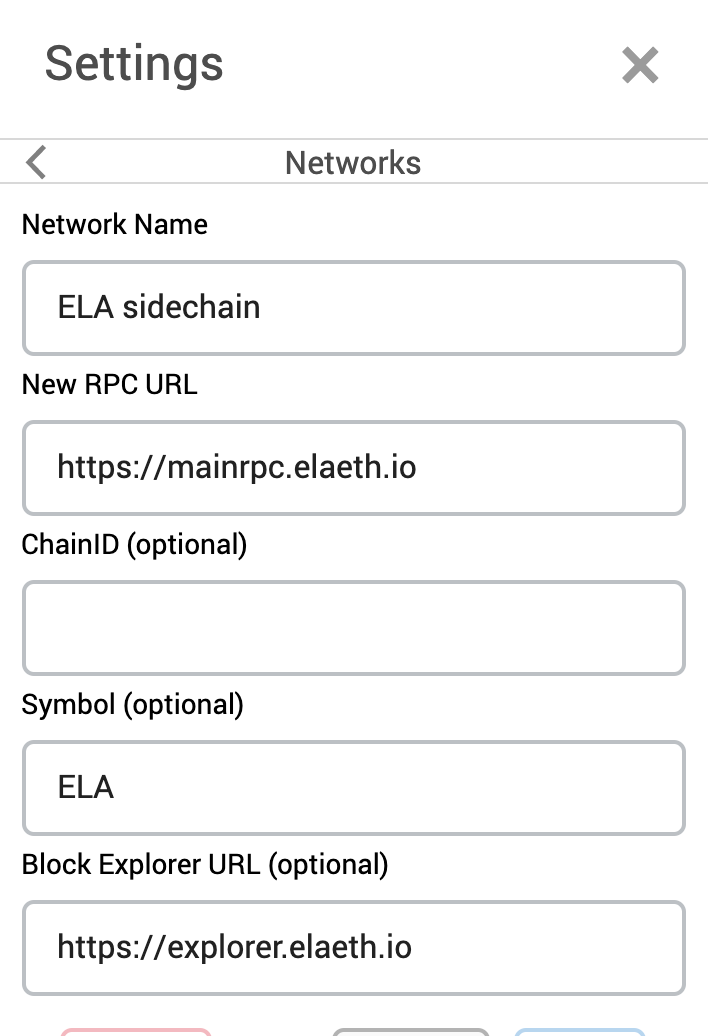
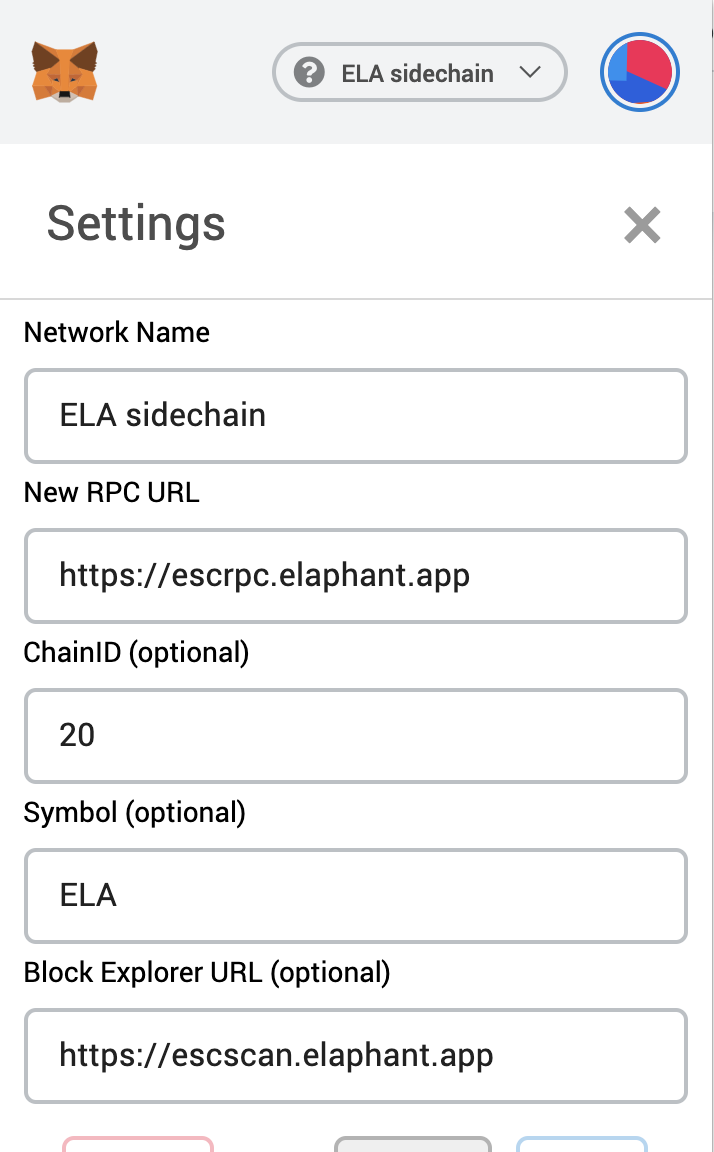
update

diff --git a/MetaMaskGuide.html b/MetaMaskGuide.html
@@ -22,15 +22,16 @@ body.typora-export { padding-left: 30px; padding-right: 30px; }
   .CodeMirror-sizer { margin-left: 0px !important; }
   .CodeMirror-gutters { display: none !important; }
 }
-#write li > figure:first-child { margin-top: -20px; }
+#write li > figure:last-child { margin-bottom: 0.5rem; }
 #write ol, #write ul { position: relative; }
-img { max-width: 100%; vertical-align: middle; }
+img { max-width: 100%; vertical-align: middle; image-orientation: from-image; }
 button, input, select, textarea { color: inherit; font-family: inherit; font-size: inherit; font-style: inherit; font-variant-caps: inherit; font-weight: inherit; font-stretch: inherit; line-height: inherit; }
 input[type="checkbox"], input[type="radio"] { line-height: normal; padding: 0px; }
 *, ::after, ::before { box-sizing: border-box; }
 #write h1, #write h2, #write h3, #write h4, #write h5, #write h6, #write p, #write pre { width: inherit; }
 #write h1, #write h2, #write h3, #write h4, #write h5, #write h6, #write p { position: relative; }
-h1, h2, h3, h4, h5, h6 { break-after: avoid-page; break-inside: avoid; orphans: 2; }
+p { line-height: inherit; }
+h1, h2, h3, h4, h5, h6 { break-after: avoid-page; break-inside: avoid; orphans: 4; }
 p { orphans: 4; }
 h1 { font-size: 2rem; }
 h2 { font-size: 1.8rem; }
@@ -46,7 +47,7 @@ sup.md-footnote { padding: 2px 4px; background-color: rgba(238, 238, 238, 0.7); 
 sup.md-footnote a, sup.md-footnote a:hover { color: inherit; text-transform: inherit; text-decoration: inherit; }
 #write input[type="checkbox"] { cursor: pointer; width: inherit; height: inherit; }
 figure { overflow-x: auto; margin: 1.2em 0px; max-width: calc(100% + 16px); padding: 0px; }
-figure > table { margin: 0px !important; }
+figure > table { margin: 0px; }
 tr { break-inside: avoid; break-after: auto; }
 thead { display: table-header-group; }
 table { border-collapse: collapse; border-spacing: 0px; width: 100%; overflow: auto; break-inside: auto; text-align: left; }
@@ -81,23 +82,24 @@ blockquote > :first-child, li > :first-child { margin-top: 0px; }
 .footnotes-area { color: rgb(136, 136, 136); margin-top: 0.714rem; padding-bottom: 0.143rem; white-space: normal; }
 #write .footnote-line { white-space: pre-wrap; }
 @media print { 
-  body, html { border: 1px solid transparent; height: 99%; break-after: avoid; break-before: avoid; }
+  body, html { border: 1px solid transparent; height: 99%; break-after: avoid; break-before: avoid; font-variant-ligatures: no-common-ligatures; }
   #write { margin-top: 0px; padding-top: 0px; border-color: transparent !important; }
   .typora-export * { -webkit-print-color-adjust: exact; }
   html.blink-to-pdf { font-size: 13px; }
   .typora-export #write { padding-left: 32px; padding-right: 32px; padding-bottom: 0px; break-after: avoid; }
   .typora-export #write::after { height: 0px; }
-  @page { margin: 20mm 0px; }
+  .is-mac table { break-inside: avoid; }
 }
 .footnote-line { margin-top: 0.714em; font-size: 0.7em; }
 a img, img a { cursor: pointer; }
 pre.md-meta-block { font-size: 0.8rem; min-height: 0.8rem; white-space: pre-wrap; background-color: rgb(204, 204, 204); display: block; overflow-x: hidden; background-position: initial initial; background-repeat: initial initial; }
 p > .md-image:only-child:not(.md-img-error) img, p > img:only-child { display: block; margin: auto; }
+#write.first-line-indent p > .md-image:only-child:not(.md-img-error) img { left: -2em; position: relative; }
 p > .md-image:only-child { display: inline-block; width: 100%; }
 #write .MathJax_Display { margin: 0.8em 0px 0px; }
 .md-math-block { width: 100%; }
 .md-math-block:not(:empty)::after { display: none; }
-[contenteditable="true"]:active, [contenteditable="true"]:focus { outline: 0px; box-shadow: none; }
+[contenteditable="true"]:active, [contenteditable="true"]:focus, [contenteditable="false"]:active, [contenteditable="false"]:focus { outline: 0px; box-shadow: none; }
 .md-task-list-item { position: relative; list-style-type: none; }
 .task-list-item.md-task-list-item { padding-left: 0px; }
 .md-task-list-item > input { position: absolute; top: 0px; left: 0px; margin-left: -1.2em; margin-top: calc(1em - 10px); border: none; }
@@ -138,15 +140,19 @@ a.md-print-anchor { white-space: pre !important; border: none !important; displa
 .MathJax_SVG .MJX-sans-serif { font-family: sans-serif; }
 .MathJax_SVG { display: inline; font-style: normal; font-weight: 400; line-height: normal; zoom: 90%; text-indent: 0px; text-align: left; text-transform: none; letter-spacing: normal; word-spacing: normal; word-wrap: normal; white-space: nowrap; float: none; direction: ltr; max-width: none; max-height: none; min-width: 0px; min-height: 0px; border: 0px; padding: 0px; margin: 0px; }
 .MathJax_SVG * { transition: none; }
-.MathJax_SVG_Display svg { vertical-align: middle !important; margin-bottom: 0px !important; }
+.MathJax_SVG_Display svg { vertical-align: middle !important; margin-bottom: 0px !important; margin-top: 0px !important; }
 .os-windows.monocolor-emoji .md-emoji { font-family: "Segoe UI Symbol", sans-serif; }
 .md-diagram-panel > svg { max-width: 100%; }
-[lang="mermaid"] svg, [lang="flow"] svg { max-width: 100%; }
+[lang="flow"] svg, [lang="mermaid"] svg { max-width: 100%; height: auto; }
 [lang="mermaid"] .node text { font-size: 1rem; }
 table tr th { border-bottom-width: 0px; }
 video { max-width: 100%; display: block; margin: 0px auto; }
 iframe { max-width: 100%; width: 100%; border: none; }
 .highlight td, .highlight tr { border: 0px; }
+svg[id^="mermaidChart"] { line-height: 1em; }
+mark { background-color: rgb(255, 255, 0); color: rgb(0, 0, 0); background-position: initial initial; background-repeat: initial initial; }
+.md-html-inline .md-plain, .md-html-inline strong, mark .md-inline-math, mark strong { color: inherit; }
+mark .md-meta { color: rgb(0, 0, 0); opacity: 0.3 !important; }
 
 
 .CodeMirror { height: auto; }
@@ -229,12 +235,16 @@ div.CodeMirror span.CodeMirror-nonmatchingbracket { color: rgb(255, 34, 34); }
 
 @include-when-export url(https://fonts.loli.net/css?family=Open+Sans:400italic,700italic,700,400&subset=latin,latin-ext);
 
-html {
+/* open-sans-regular - latin-ext_latin */
+  /* open-sans-italic - latin-ext_latin */
+    /* open-sans-700 - latin-ext_latin */
+    /* open-sans-700italic - latin-ext_latin */
+  html {
     font-size: 16px;
 }
 
 body {
-    font-family: "Open Sans","Clear Sans","Helvetica Neue",Helvetica,Arial,sans-serif;
+    font-family: "Open Sans","Clear Sans", "Helvetica Neue", Helvetica, Arial, sans-serif;
     color: rgb(51, 51, 51);
     line-height: 1.6;
 }
@@ -245,6 +255,19 @@ body {
   	padding: 30px;
     padding-bottom: 100px;
 }
+
+@media only screen and (min-width: 1400px) {
+	#write {
+		max-width: 1024px;
+	}
+}
+
+@media only screen and (min-width: 1800px) {
+	#write {
+		max-width: 1200px;
+	}
+}
+
 #write > ul:first-child,
 #write > ol:first-child{
     margin-top: 30px;
@@ -386,13 +409,11 @@ table tr th {
     font-weight: bold;
     border: 1px solid #dfe2e5;
     border-bottom: 0;
-    text-align: left;
     margin: 0;
     padding: 6px 13px;
 }
 table tr td {
     border: 1px solid #dfe2e5;
-    text-align: left;
     margin: 0;
     padding: 6px 13px;
 }
@@ -562,10 +583,19 @@ header, .context-menu, .megamenu-content, footer{
     border-color: #e5e5e5;
 }
 
+.ty-preferences .window-content {
+    background-color: #fafafa;
+}
+
+.ty-preferences .nav-group-item.active {
+    color: white;
+    background: #999;
+}
+
  .typora-export li, .typora-export p, .typora-export,  .footnote-line {white-space: normal;} 
 </style>
 </head>
 <body class='typora-export' >
-<div  id='write'  class = 'is-mac'><h1><a name='header-n889' class='md-header-anchor '></a>How to use CryptoName</h1><iframe width="560" height="315" src="https://www.youtube.com/embed/MmJpE7xJlBI" frameborder="0" allow="accelerometer; autoplay; encrypted-media; gyroscope; picture-in-picture" allowfullscreen="" onerror="this.style.display = 'none';"></iframe><p>&nbsp;</p><h3><a name='header-n893' class='md-header-anchor '></a>1. Install MetaMask and Elaphant wallet app.</h3><p>First you need a PC/ Laptop with Chrome, Firefox or Brave browser installed. Then download and install Metamask Wallet from here –</p><p><a href='https://metamask.io' target='_top' class='url'>https://metamask.io</a></p><p>Secondly you need an android / IOS device with Elaphant wallet installed, download here –</p><p><a href='https://elaphant.app/' target='_top' class='url'>https://elephantwallet.app/</a></p><p>&nbsp;</p><h3><a name='header-n899' class='md-header-anchor'></a>2. Connect to the Elastos sidechain.</h3><p><img src="img/s4.png" width="240"/><img src="img/s3.png" width="240"/></p><p>&nbsp;</p><p>Network Name: </p><pre spellcheck="false" class="md-fences md-end-block ty-contain-cm modeLoaded" lang=""><div class="CodeMirror cm-s-inner CodeMirror-wrap" lang=""><div style="overflow: hidden; position: relative; width: 3px; height: 0px; top: 0px; left: 8px;"><textarea autocorrect="off" autocapitalize="off" spellcheck="false" tabindex="0" style="position: absolute; bottom: -1em; padding: 0px; width: 1000px; height: 1em; outline: none;"></textarea></div><div class="CodeMirror-scrollbar-filler" cm-not-content="true"></div><div class="CodeMirror-gutter-filler" cm-not-content="true"></div><div class="CodeMirror-scroll" tabindex="-1"><div class="CodeMirror-sizer" style="margin-left: 0px; margin-bottom: 0px; border-right-width: 0px; padding-right: 0px; padding-bottom: 0px;"><div style="position: relative; top: 0px;"><div class="CodeMirror-lines" role="presentation"><div role="presentation" style="position: relative; outline: none;"><div class="CodeMirror-measure"><pre><span>xxxxxxxxxx</span></pre></div><div class="CodeMirror-measure"></div><div style="position: relative; z-index: 1;"></div><div class="CodeMirror-code" role="presentation"><div class="CodeMirror-activeline" style="position: relative;"><div class="CodeMirror-activeline-background CodeMirror-linebackground"></div><div class="CodeMirror-gutter-background CodeMirror-activeline-gutter" style="left: 0px; width: 0px;"></div><pre class=" CodeMirror-line " role="presentation"><span role="presentation" style="padding-right: 0.1px;">ELA sidechain</span></pre></div></div></div></div></div></div><div style="position: absolute; height: 0px; width: 1px; border-bottom-width: 0px; border-bottom-style: solid; border-bottom-color: transparent; top: 22px;"></div><div class="CodeMirror-gutters" style="display: none; height: 22px;"></div></div></div></pre><p>Symbol: </p><pre spellcheck="false" class="md-fences md-end-block ty-contain-cm modeLoaded" lang=""><div class="CodeMirror cm-s-inner CodeMirror-wrap" lang=""><div style="overflow: hidden; position: relative; width: 3px; height: 0px; top: 0px; left: 8px;"><textarea autocorrect="off" autocapitalize="off" spellcheck="false" tabindex="0" style="position: absolute; bottom: -1em; padding: 0px; width: 1000px; height: 1em; outline: none;"></textarea></div><div class="CodeMirror-scrollbar-filler" cm-not-content="true"></div><div class="CodeMirror-gutter-filler" cm-not-content="true"></div><div class="CodeMirror-scroll" tabindex="-1"><div class="CodeMirror-sizer" style="margin-left: 0px; margin-bottom: 0px; border-right-width: 0px; padding-right: 0px; padding-bottom: 0px;"><div style="position: relative; top: 0px;"><div class="CodeMirror-lines" role="presentation"><div role="presentation" style="position: relative; outline: none;"><div class="CodeMirror-measure"><pre><span>xxxxxxxxxx</span></pre></div><div class="CodeMirror-measure"></div><div style="position: relative; z-index: 1;"></div><div class="CodeMirror-code" role="presentation"><div class="CodeMirror-activeline" style="position: relative;"><div class="CodeMirror-activeline-background CodeMirror-linebackground"></div><div class="CodeMirror-gutter-background CodeMirror-activeline-gutter" style="left: 0px; width: 0px;"></div><pre class=" CodeMirror-line " role="presentation"><span role="presentation" style="padding-right: 0.1px;">ELA</span></pre></div></div></div></div></div></div><div style="position: absolute; height: 0px; width: 1px; border-bottom-width: 0px; border-bottom-style: solid; border-bottom-color: transparent; top: 22px;"></div><div class="CodeMirror-gutters" style="display: none; height: 22px;"></div></div></div></pre><p>New RPC URL: </p><pre spellcheck="false" class="md-fences md-end-block ty-contain-cm modeLoaded" lang=""><div class="CodeMirror cm-s-inner CodeMirror-wrap" lang=""><div style="overflow: hidden; position: relative; width: 3px; height: 0px; top: 0px; left: 8px;"><textarea autocorrect="off" autocapitalize="off" spellcheck="false" tabindex="0" style="position: absolute; bottom: -1em; padding: 0px; width: 1000px; height: 1em; outline: none;"></textarea></div><div class="CodeMirror-scrollbar-filler" cm-not-content="true"></div><div class="CodeMirror-gutter-filler" cm-not-content="true"></div><div class="CodeMirror-scroll" tabindex="-1"><div class="CodeMirror-sizer" style="margin-left: 0px; margin-bottom: 0px; border-right-width: 0px; padding-right: 0px; padding-bottom: 0px;"><div style="position: relative; top: 0px;"><div class="CodeMirror-lines" role="presentation"><div role="presentation" style="position: relative; outline: none;"><div class="CodeMirror-measure"><pre><span>xxxxxxxxxx</span></pre></div><div class="CodeMirror-measure"></div><div style="position: relative; z-index: 1;"></div><div class="CodeMirror-code" role="presentation"><div class="CodeMirror-activeline" style="position: relative;"><div class="CodeMirror-activeline-background CodeMirror-linebackground"></div><div class="CodeMirror-gutter-background CodeMirror-activeline-gutter" style="left: 0px; width: 0px;"></div><pre class=" CodeMirror-line " role="presentation"><span role="presentation" style="padding-right: 0.1px;">https://mainrpc.elaeth.io</span></pre></div></div></div></div></div></div><div style="position: absolute; height: 0px; width: 1px; border-bottom-width: 0px; border-bottom-style: solid; border-bottom-color: transparent; top: 22px;"></div><div class="CodeMirror-gutters" style="display: none; height: 22px;"></div></div></div></pre><p>Block Explorer URL: </p><pre spellcheck="false" class="md-fences md-end-block ty-contain-cm modeLoaded" lang=""><div class="CodeMirror cm-s-inner CodeMirror-wrap" lang=""><div style="overflow: hidden; position: relative; width: 3px; height: 0px; top: 0px; left: 8px;"><textarea autocorrect="off" autocapitalize="off" spellcheck="false" tabindex="0" style="position: absolute; bottom: -1em; padding: 0px; width: 1000px; height: 1em; outline: none;"></textarea></div><div class="CodeMirror-scrollbar-filler" cm-not-content="true"></div><div class="CodeMirror-gutter-filler" cm-not-content="true"></div><div class="CodeMirror-scroll" tabindex="-1"><div class="CodeMirror-sizer" style="margin-left: 0px; margin-bottom: 0px; border-right-width: 0px; padding-right: 0px; padding-bottom: 0px;"><div style="position: relative; top: 0px;"><div class="CodeMirror-lines" role="presentation"><div role="presentation" style="position: relative; outline: none;"><div class="CodeMirror-measure"><pre><span>xxxxxxxxxx</span></pre></div><div class="CodeMirror-measure"></div><div style="position: relative; z-index: 1;"></div><div class="CodeMirror-code" role="presentation"><div class="CodeMirror-activeline" style="position: relative;"><div class="CodeMirror-activeline-background CodeMirror-linebackground"></div><div class="CodeMirror-gutter-background CodeMirror-activeline-gutter" style="left: 0px; width: 0px;"></div><pre class=" CodeMirror-line " role="presentation"><span role="presentation" style="padding-right: 0.1px;">https://explorer.elaeth.io</span></pre></div></div></div></div></div></div><div style="position: absolute; height: 0px; width: 1px; border-bottom-width: 0px; border-bottom-style: solid; border-bottom-color: transparent; top: 22px;"></div><div class="CodeMirror-gutters" style="display: none; height: 22px;"></div></div></div></pre><p>Above is the network setting.</p><p>&nbsp;</p><h3><a name='header-n912' class='md-header-anchor '></a>3. Create a wallet or import a wallet.</h3><p><img src="img/s2.png" width="240"/></p><p>If you want to import your Elaphant wallet to MetaMask, you will first need your private key. Click this link <a href='https://elaphant.app/mnemonic.html' target='_top' class='url'>https://elaphant.app/mnemonic.html</a> and enter your Elaphant wallet mnemonics, the page will then generate your private key below.</p><p><img src="img/s1.png" /></p><p>Please copy that private key to MetaMask. Note, please double check the address after imptorted.</p><p>&nbsp;</p><h3><a name='header-n918' class='md-header-anchor '></a>4. Send ELA to your CryptoName Metamask account.</h3><p>You are now connected to the Elastos sidechain through Metamask, the next step is to send ELA from your Elaphant wallet to your CryptoName Account.</p><p>Go to your CryptoName <a href='https://cryptoname.org/account.html' target='_top'><strong>Account</strong></a> on the PC/Laptop and press <strong>Deposit</strong>, a QR code will appear on the screen.</p><p><img src="img/s7.png" /></p><p>Now using the Elaphant wallet on your device click send and scan the QR code, enter the amount of ELA and click Send.</p><p>After a few minutes the ELA should appear in you CryptoName Account.</p><p>Set up complete.</p><p>You are now ready to purchase your CryptoName&#39;s.</p><p>You can now search and purchase your names in the <a href='https://cryptoname.org/register.html' target='_top'><strong>Register</strong></a>.</p><p>You can manage your names in the <a href='https://cryptoname.org/account.html' target='_top'><strong>Account</strong></a>.</p><p>&nbsp;</p><h3><a name='header-n929' class='md-header-anchor '></a>5. How to return ELA from your CryptoName Account back to your Elephant wallet.</h3><p>On the CryptoName <a href='https://cryptoname.org/account.html' target='_top'><strong>Account</strong></a> page on the PC/Laptop click Withdraw. Enter the amount of ELA and the address of the Elephant wallet, and click send.</p><p>After a few minutes minutes the ELA will appear in the Elaphant wallet on the device.</p><p>&nbsp;</p><h3><a name='header-n933' class='md-header-anchor '></a>6. How to Purchase/Register your CryptoName.</h3><p>On the CryptoName website on your PC/Laptop click the <a href='https://cryptoname.org/register.html' target='_top'><strong>Register</strong></a> link. Then enter your chosen name in the registration bar, if the name is available you will see a green tick and the estimated price below.</p><p>To proceed click the Register button below the price, the Metamask wallet will now pop up, you now need to click Confirm within the Metamask wallet. Wait a few minutes and your CryptoName will appear within the Account page.</p><p>To link your CryptoName to your Elaphant wallet, go to the Account page and click Edit on your chosen name. At the bottom of the page click &quot;Start Elaphant to fill in quickly&quot; .</p><p>A QR code will now appear on the screen, using the Elaphant Wallet on the device, scan the QR code( see images for the location of the Qr scanner within the Elaphant wallet)</p><p><img src="img/s5.png" width="240"/><img src="img/s6.png" width="240"/></p><p>Once this process is complete click the Save button within the edit page on your PC/Laptop. And that&#39;s it, people will now only need to enter your CryptoName to send you ELA, ETH, BTC.</p><p>&nbsp;</p><h3><a name='header-n941' class='md-header-anchor '></a>7. How to transfer your CryptoName.</h3><p>Within the CryptoName <a href='https://cryptoname.org/account.html' target='_top'><strong>Account</strong></a> page on the PC/Laptop click Transfer on the CryptoName you want to transfer. You will now need to enter the receivers Account Address (this can be found in their CryptoName Account page), then click Submit.</p><p>The Metamask wallet will now pop up, click Confirm. Wait a while and it will appear in the receivers CryptoName Account page.</p><p>Please note, you can only transfer your CryptoName, to another registered CryptoName account.</p><p>&nbsp;</p></div>
+<div  id='write'  class = ''><h1><a name="how-to-use-cryptoname" class="md-header-anchor"></a><span>How to use CryptoName</span></h1><iframe width="560" height="315" src="https://www.youtube.com/embed/MmJpE7xJlBI" frameborder="0" allow="accelerometer; autoplay; encrypted-media; gyroscope; picture-in-picture" allowfullscreen=""></iframe><p>&nbsp;</p><h3><a name="1-install-metamask-and-elaphant-wallet-app" class="md-header-anchor"></a><span>1. Install MetaMask and Elaphant wallet app.</span></h3><p><span>First you need a PC/ Laptop with Chrome, Firefox or Brave browser installed. Then download and install Metamask Wallet from here –</span></p><p><a href='https://metamask.io' target='_top' class='url'>https://metamask.io</a></p><p><span>Secondly you need an android / IOS device with Elaphant wallet installed, download here –</span></p><p><a href='https://elaphant.app/' target='_top' class='url'>https://elaphant.app/</a></p><p>&nbsp;</p><h3><a name="2-connect-to-the-elastos-sidechain" class="md-header-anchor"></a><span>2. Connect to the Elastos sidechain.</span></h3><p><img src="img/s4.png" width="240"/><img src="img/s3.png" width="240"/></p><p>&nbsp;</p><p><span>Network Name: </span></p><pre spellcheck="false" class="md-fences md-end-block ty-contain-cm modeLoaded" lang=""><div class="CodeMirror cm-s-inner CodeMirror-wrap" lang=""><div style="overflow: hidden; position: relative; width: 3px; height: 0px; top: 0px; left: 8px;"><textarea autocorrect="off" autocapitalize="off" spellcheck="false" tabindex="0" style="position: absolute; bottom: -1em; padding: 0px; width: 1000px; height: 1em; outline: none;"></textarea></div><div class="CodeMirror-scrollbar-filler" cm-not-content="true"></div><div class="CodeMirror-gutter-filler" cm-not-content="true"></div><div class="CodeMirror-scroll" tabindex="-1"><div class="CodeMirror-sizer" style="margin-left: 0px; margin-bottom: 0px; border-right-width: 0px; padding-right: 0px; padding-bottom: 0px;"><div style="position: relative; top: 0px;"><div class="CodeMirror-lines" role="presentation"><div role="presentation" style="position: relative; outline: none;"><div class="CodeMirror-measure"><pre><span>xxxxxxxxxx</span></pre></div><div class="CodeMirror-measure"></div><div style="position: relative; z-index: 1;"></div><div class="CodeMirror-code" role="presentation"><div class="CodeMirror-activeline" style="position: relative;"><div class="CodeMirror-activeline-background CodeMirror-linebackground"></div><div class="CodeMirror-gutter-background CodeMirror-activeline-gutter" style="left: 0px; width: 0px;"></div><pre class=" CodeMirror-line " role="presentation"><span role="presentation" style="padding-right: 0.1px;">ELA sidechain</span></pre></div></div></div></div></div></div><div style="position: absolute; height: 0px; width: 1px; border-bottom-width: 0px; border-bottom-style: solid; border-bottom-color: transparent; top: 22px;"></div><div class="CodeMirror-gutters" style="display: none; height: 22px;"></div></div></div></pre><p><span>Symbol: </span></p><pre spellcheck="false" class="md-fences md-end-block ty-contain-cm modeLoaded" lang=""><div class="CodeMirror cm-s-inner CodeMirror-wrap" lang=""><div style="overflow: hidden; position: relative; width: 3px; height: 0px; top: 0px; left: 8px;"><textarea autocorrect="off" autocapitalize="off" spellcheck="false" tabindex="0" style="position: absolute; bottom: -1em; padding: 0px; width: 1000px; height: 1em; outline: none;"></textarea></div><div class="CodeMirror-scrollbar-filler" cm-not-content="true"></div><div class="CodeMirror-gutter-filler" cm-not-content="true"></div><div class="CodeMirror-scroll" tabindex="-1"><div class="CodeMirror-sizer" style="margin-left: 0px; margin-bottom: 0px; border-right-width: 0px; padding-right: 0px; padding-bottom: 0px;"><div style="position: relative; top: 0px;"><div class="CodeMirror-lines" role="presentation"><div role="presentation" style="position: relative; outline: none;"><div class="CodeMirror-measure"><pre><span>xxxxxxxxxx</span></pre></div><div class="CodeMirror-measure"></div><div style="position: relative; z-index: 1;"></div><div class="CodeMirror-code" role="presentation"><div class="CodeMirror-activeline" style="position: relative;"><div class="CodeMirror-activeline-background CodeMirror-linebackground"></div><div class="CodeMirror-gutter-background CodeMirror-activeline-gutter" style="left: 0px; width: 0px;"></div><pre class=" CodeMirror-line " role="presentation"><span role="presentation" style="padding-right: 0.1px;">ELA</span></pre></div></div></div></div></div></div><div style="position: absolute; height: 0px; width: 1px; border-bottom-width: 0px; border-bottom-style: solid; border-bottom-color: transparent; top: 22px;"></div><div class="CodeMirror-gutters" style="display: none; height: 22px;"></div></div></div></pre><p><span>ChainID: </span></p><pre spellcheck="false" class="md-fences md-end-block ty-contain-cm modeLoaded md-focus" lang=""><div class="CodeMirror cm-s-inner CodeMirror-wrap" lang=""><div style="overflow: hidden; position: relative; width: 3px; height: 0px; top: 0px; left: 24.796875px;"><textarea autocorrect="off" autocapitalize="off" spellcheck="false" tabindex="0" style="position: absolute; bottom: -1em; padding: 0px; width: 1000px; height: 1em; outline: none;"></textarea></div><div class="CodeMirror-scrollbar-filler" cm-not-content="true"></div><div class="CodeMirror-gutter-filler" cm-not-content="true"></div><div class="CodeMirror-scroll" tabindex="-1"><div class="CodeMirror-sizer" style="margin-left: 0px; margin-bottom: 0px; border-right-width: 0px; padding-right: 0px; padding-bottom: 0px;"><div style="position: relative; top: 0px;"><div class="CodeMirror-lines" role="presentation"><div role="presentation" style="position: relative; outline: none;"><div class="CodeMirror-measure"><pre>x</pre></div><div class="CodeMirror-measure"></div><div style="position: relative; z-index: 1;"></div><div class="CodeMirror-code" role="presentation"><div class="CodeMirror-activeline" style="position: relative;"><div class="CodeMirror-activeline-background CodeMirror-linebackground"></div><div class="CodeMirror-gutter-background CodeMirror-activeline-gutter" style="left: 0px; width: 0px;"></div><pre class=" CodeMirror-line " role="presentation"><span role="presentation" style="padding-right: 0.1px;">20</span></pre></div></div></div></div></div></div><div style="position: absolute; height: 0px; width: 1px; border-bottom-width: 0px; border-bottom-style: solid; border-bottom-color: transparent; top: 22px;"></div><div class="CodeMirror-gutters" style="display: none; height: 22px;"></div></div></div></pre><p><span>New RPC URL: </span></p><pre spellcheck="false" class="md-fences md-end-block ty-contain-cm modeLoaded" lang=""><div class="CodeMirror cm-s-inner CodeMirror-wrap" lang=""><div style="overflow: hidden; position: relative; width: 3px; height: 0px; top: 0px; left: 8px;"><textarea autocorrect="off" autocapitalize="off" spellcheck="false" tabindex="0" style="position: absolute; bottom: -1em; padding: 0px; width: 1000px; height: 1em; outline: none;"></textarea></div><div class="CodeMirror-scrollbar-filler" cm-not-content="true"></div><div class="CodeMirror-gutter-filler" cm-not-content="true"></div><div class="CodeMirror-scroll" tabindex="-1"><div class="CodeMirror-sizer" style="margin-left: 0px; margin-bottom: 0px; border-right-width: 0px; padding-right: 0px; padding-bottom: 0px;"><div style="position: relative; top: 0px;"><div class="CodeMirror-lines" role="presentation"><div role="presentation" style="position: relative; outline: none;"><div class="CodeMirror-measure"><pre><span>xxxxxxxxxx</span></pre></div><div class="CodeMirror-measure"></div><div style="position: relative; z-index: 1;"></div><div class="CodeMirror-code" role="presentation"><div class="CodeMirror-activeline" style="position: relative;"><div class="CodeMirror-activeline-background CodeMirror-linebackground"></div><div class="CodeMirror-gutter-background CodeMirror-activeline-gutter" style="left: 0px; width: 0px;"></div><pre class=" CodeMirror-line " role="presentation"><span role="presentation" style="padding-right: 0.1px;">https://escrpc.elaphant.app</span></pre></div></div></div></div></div></div><div style="position: absolute; height: 0px; width: 1px; border-bottom-width: 0px; border-bottom-style: solid; border-bottom-color: transparent; top: 22px;"></div><div class="CodeMirror-gutters" style="display: none; height: 22px;"></div></div></div></pre><p><span>Block Explorer URL: </span></p><pre spellcheck="false" class="md-fences md-end-block ty-contain-cm modeLoaded" lang=""><div class="CodeMirror cm-s-inner CodeMirror-wrap" lang=""><div style="overflow: hidden; position: relative; width: 3px; height: 0px; top: 0px; left: 8px;"><textarea autocorrect="off" autocapitalize="off" spellcheck="false" tabindex="0" style="position: absolute; bottom: -1em; padding: 0px; width: 1000px; height: 1em; outline: none;"></textarea></div><div class="CodeMirror-scrollbar-filler" cm-not-content="true"></div><div class="CodeMirror-gutter-filler" cm-not-content="true"></div><div class="CodeMirror-scroll" tabindex="-1"><div class="CodeMirror-sizer" style="margin-left: 0px; margin-bottom: 0px; border-right-width: 0px; padding-right: 0px; padding-bottom: 0px;"><div style="position: relative; top: 0px;"><div class="CodeMirror-lines" role="presentation"><div role="presentation" style="position: relative; outline: none;"><div class="CodeMirror-measure"><pre><span>xxxxxxxxxx</span></pre></div><div class="CodeMirror-measure"></div><div style="position: relative; z-index: 1;"></div><div class="CodeMirror-code" role="presentation"><div class="CodeMirror-activeline" style="position: relative;"><div class="CodeMirror-activeline-background CodeMirror-linebackground"></div><div class="CodeMirror-gutter-background CodeMirror-activeline-gutter" style="left: 0px; width: 0px;"></div><pre class=" CodeMirror-line " role="presentation"><span role="presentation" style="padding-right: 0.1px;">https://escscan.elaphant.app</span></pre></div></div></div></div></div></div><div style="position: absolute; height: 0px; width: 1px; border-bottom-width: 0px; border-bottom-style: solid; border-bottom-color: transparent; top: 22px;"></div><div class="CodeMirror-gutters" style="display: none; height: 22px;"></div></div></div></pre><p><span>Above is the network setting.</span></p><p>&nbsp;</p><h3><a name="3-create-a-wallet-or-import-a-wallet" class="md-header-anchor"></a><span>3. Create a wallet or import a wallet.</span></h3><p><img src="img/s2.png" width="240"/></p><p><span>If you want to import your Elaphant wallet to MetaMask, you will first need your private key. Click this link </span><a href='https://elaphant.app/mnemonic.html' target='_top' class='url'>https://elaphant.app/mnemonic.html</a><span> and enter your Elaphant wallet mnemonics, the page will then generate your private key below.</span></p><p><img src="img/s1.png" /></p><p><span>Please copy that private key to MetaMask. Note, please double check the address after imptorted.</span></p><p>&nbsp;</p><h3><a name="4-send-ela-to-your-cryptoname-metamask-account" class="md-header-anchor"></a><span>4. Send ELA to your CryptoName Metamask account.</span></h3><p><span>You are now connected to the Elastos sidechain through Metamask, the next step is to send ELA from your Elaphant wallet to your CryptoName Account.</span></p><p><span>Go to your CryptoName </span><a href='https://cryptoname.org/account.html' target='_top'><strong><span>Account</span></strong></a><span> on the PC/Laptop and press </span><strong><span>Deposit</span></strong><span>, a QR code will appear on the screen.</span></p><p><img src="img/s7.png" /></p><p><span>Now using the Elaphant wallet on your device click send and scan the QR code, enter the amount of ELA and click Send.</span></p><p><span>After a few minutes the ELA should appear in you CryptoName Account.</span></p><p><span>Set up complete.</span></p><p><span>You are now ready to purchase your CryptoName&#39;s.</span></p><p><span>You can now search and purchase your names in the </span><a href='https://cryptoname.org/register.html' target='_top'><strong><span>Register</span></strong></a><span>.</span></p><p><span>You can manage your names in the </span><a href='https://cryptoname.org/account.html' target='_top'><strong><span>Account</span></strong></a><span>.</span></p><p>&nbsp;</p><h3><a name="5-how-to-return-ela-from-your-cryptoname-account-back-to-your-elephant-wallet" class="md-header-anchor"></a><span>5. How to return ELA from your CryptoName Account back to your Elephant wallet.</span></h3><p><span>On the CryptoName </span><a href='https://cryptoname.org/account.html' target='_top'><strong><span>Account</span></strong></a><span> page on the PC/Laptop click Withdraw. Enter the amount of ELA and the address of the Elephant wallet, and click send.</span></p><p><span>After a few minutes minutes the ELA will appear in the Elaphant wallet on the device.</span></p><p>&nbsp;</p><h3><a name="6-how-to-purchaseregister-your-cryptoname" class="md-header-anchor"></a><span>6. How to Purchase/Register your CryptoName.</span></h3><p><span>On the CryptoName website on your PC/Laptop click the </span><a href='https://cryptoname.org/register.html' target='_top'><strong><span>Register</span></strong></a><span> link. Then enter your chosen name in the registration bar, if the name is available you will see a green tick and the estimated price below.</span></p><p><span>To proceed click the Register button below the price, the Metamask wallet will now pop up, you now need to click Confirm within the Metamask wallet. Wait a few minutes and your CryptoName will appear within the Account page.</span></p><p><span>To link your CryptoName to your Elaphant wallet, go to the Account page and click Edit on your chosen name. At the bottom of the page click &quot;Start Elaphant to fill in quickly&quot; .</span></p><p><span>A QR code will now appear on the screen, using the Elaphant Wallet on the device, scan the QR code( see images for the location of the Qr scanner within the Elaphant wallet)</span></p><p><img src="img/s5.png" width="240"/><img src="img/s6.png" width="240"/></p><p><span>Once this process is complete click the Save button within the edit page on your PC/Laptop. And that&#39;s it, people will now only need to enter your CryptoName to send you ELA, ETH, BTC.</span></p><p>&nbsp;</p><h3><a name="7-how-to-transfer-your-cryptoname" class="md-header-anchor"></a><span>7. How to transfer your CryptoName.</span></h3><p><span>Within the CryptoName </span><a href='https://cryptoname.org/account.html' target='_top'><strong><span>Account</span></strong></a><span> page on the PC/Laptop click Transfer on the CryptoName you want to transfer. You will now need to enter the receivers Account Address (this can be found in their CryptoName Account page), then click Submit.</span></p><p><span>The Metamask wallet will now pop up, click Confirm. Wait a while and it will appear in the receivers CryptoName Account page.</span></p><p><span>Please note, you can only transfer your CryptoName, to another registered CryptoName account.</span></p><p>&nbsp;</p></div>
 </body>
 </html>

diff --git a/MetaMaskGuide.md b/MetaMaskGuide.md
@@ -34,16 +34,21 @@ Symbol:
 ELA
 ```
 
+ChainID: 
+
+```
+20
+```
 New RPC URL: 
 
 ```
-https://mainrpc.elaeth.io
+https://escrpc.elaphant.app
 ```
 
 Block Explorer URL: 
 
 ```
-https://explorer.elaeth.io
+https://escscan.elaphant.app
 ```
 
 Above is the network setting.
